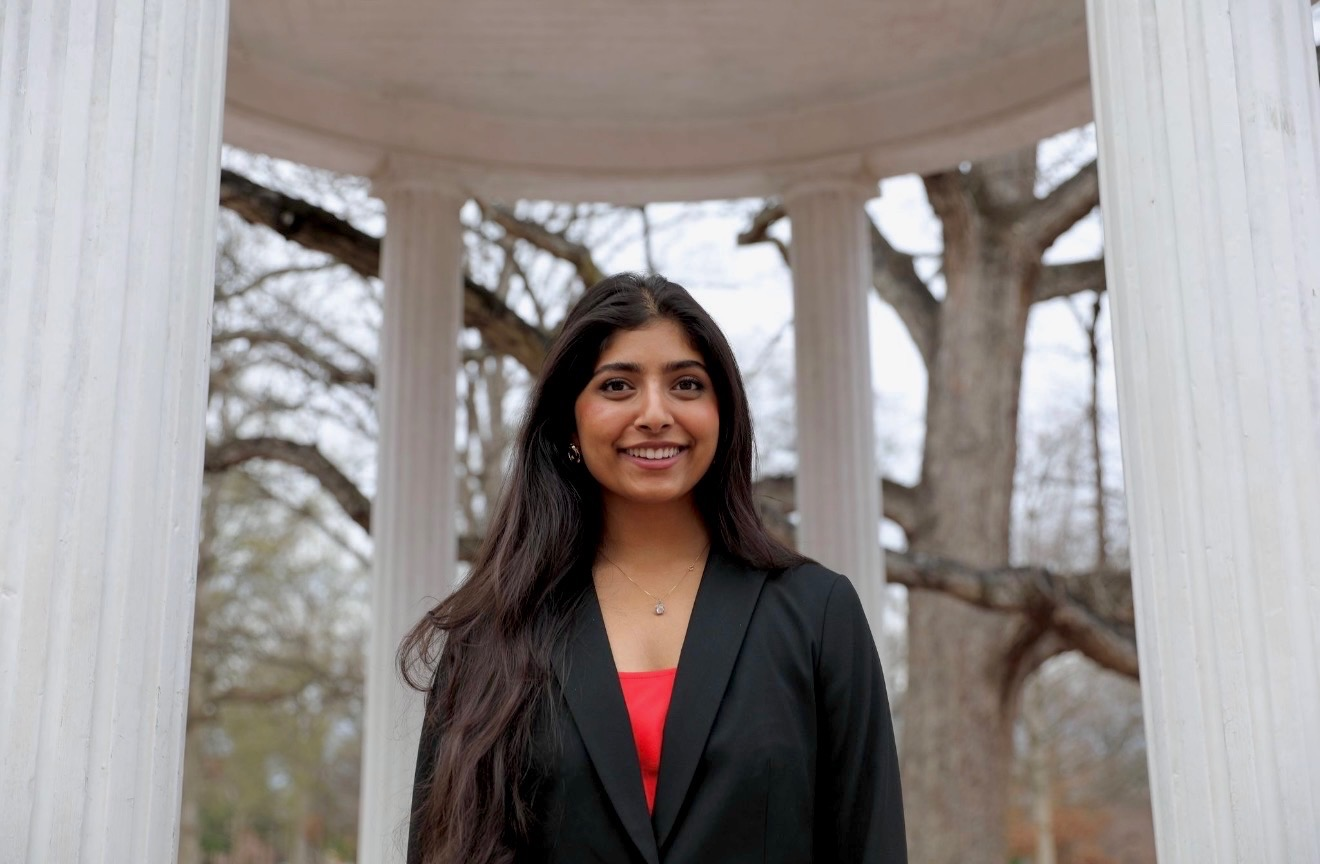
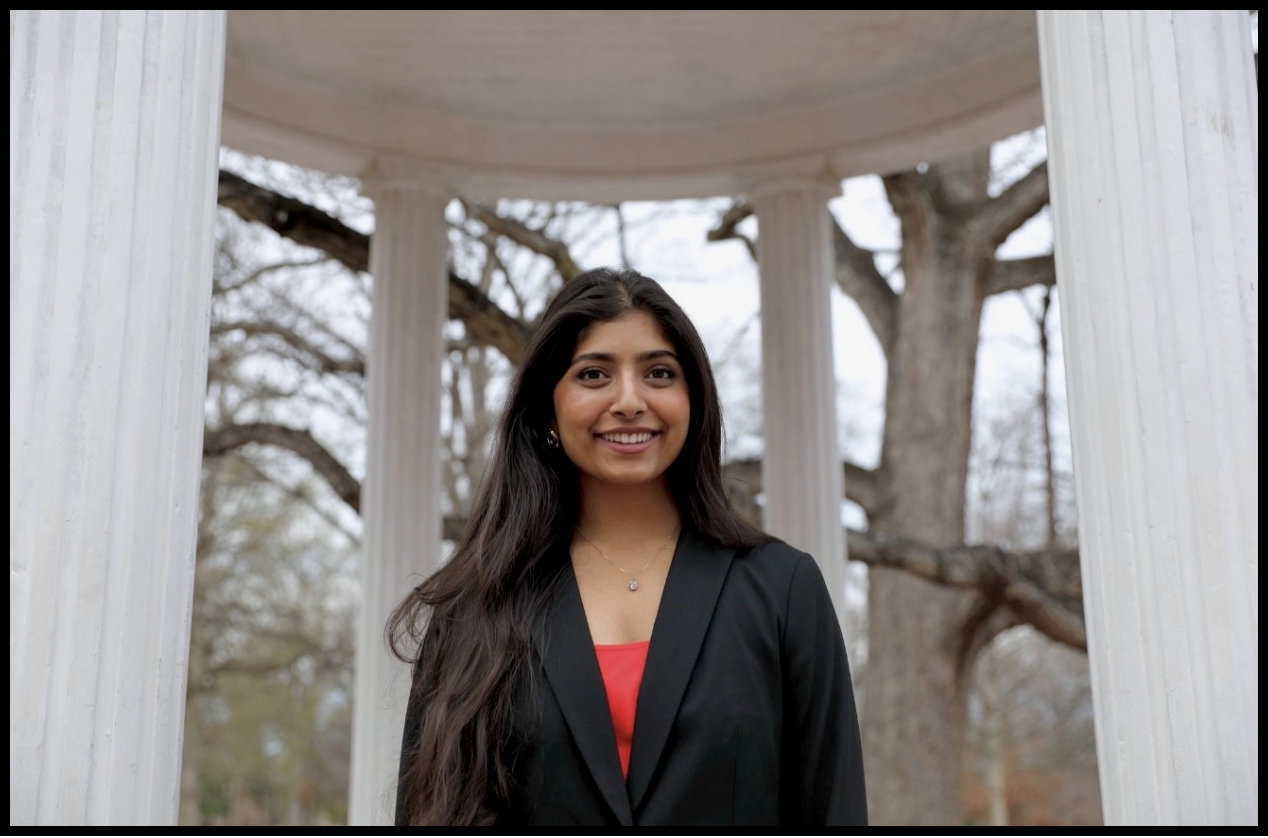
fixing research statement and pfp

diff --git a/research.html b/research.html
@@ -37,21 +37,10 @@
     </nav>
 
   <div class="research-statement-section">
-    <h1>Research Statement</h1>
-    <div class="intro-text">
-      <p>
-        My research agenda focuses on exploring the neurobiological mechanisms underlying psychiatric and affective disorders in adolescent girls, specifically examining how the pubertal surge in estradiol influences neural reward circuitry and emotional reactivity.
-      </p>
-      <p>
-        Although clinical studies have identified and defined a rise in the prevalence of anxiety during early adolescence, the specific temporal link between rapid pubertal development and the remodeling of the mesolimbic dopamine pathway remains poorly understood.
-      </p>
-      <p>
-        My future research goals aim to bridge this delta by utilizing longitudinal functional neuroimaging and hormonal profiling to determine how varying pubertal trajectories correlate with heightened neural sensitivity to rewards in day-to-day life.
-      </p>
-      <p>
-        By identifying the critical neural windows where hormonal surges impact emotional development the most, this research seeks to facilitate the development of early-intervention models that can mitigate the progression of psychiatric disorders in adolescent girls before they become chronic.
-      </p>
-    </div>
+      <h1>Research Statement</h1>
+      <div class="research-text-block">
+          My research agenda focuses on exploring the neurobiological mechanisms underlying psychiatric and affective disorders in adolescent girls, specifically examining how the pubertal surge in estradiol influences neural reward circuitry and emotional reactivity. Although clinical studies have identified and defined a rise in the prevalence of anxiety during early adolescence, the specific temporal link between rapid pubertal development and the remodeling of the mesolimbic dopamine pathway remains poorly understood. My future research goals aim to bridge this delta by utilizing longitudinal functional neuroimaging and hormonal profiling to determine how varying pubertal trajectories correlate with heightened neural sensitivity to rewards in day-to-day life. By identifying the critical neural windows where hormonal surges impact emotional development the most, this research seeks to facilitate the development of early-intervention models that can mitigate the progression of psychiatric disorders in adolescent girls before they become chronic.
+      </div>
   </div>
 
 <hr class="section-divider">

diff --git a/style.css b/style.css
@@ -133,12 +133,21 @@ p {
     margin-bottom: 2rem;
 }
 
-.research-statement-section .intro-text {
+/* Updated research block for full-page width and single paragraph flow */
+.research-text-block {
+    max-width: 100%; 
+    line-height: 1.7;
+    margin-bottom: 2rem;
+    padding: 15px 20px; /* Combined top/bottom and left/right padding */
     border-left: 4px solid #4B9CD3; /* Carolina Blue accent */
-    padding-left: 20px;
     background-color: #fcfcfc;
-    padding-top: 10px;
-    padding-bottom: 1px;
+    color: #333;
+}
+
+/* Kept for potential use if you need other styled text blocks later */
+.intro-text {
+    max-width: 700px;
+    line-height: 1.7;
 }
 
 .section-divider {
